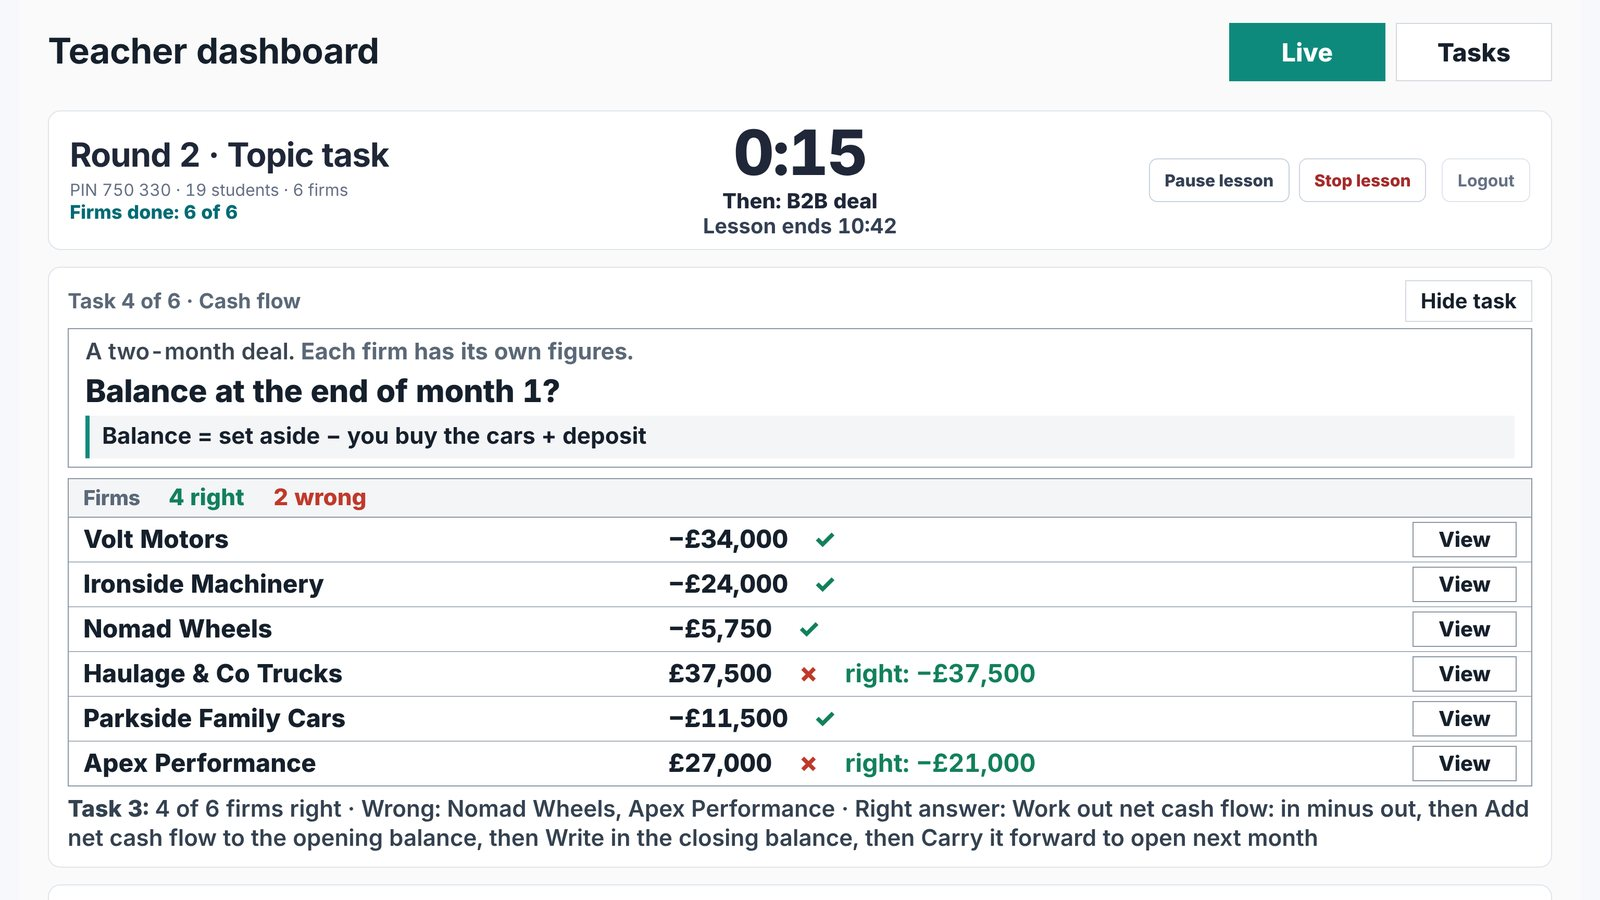
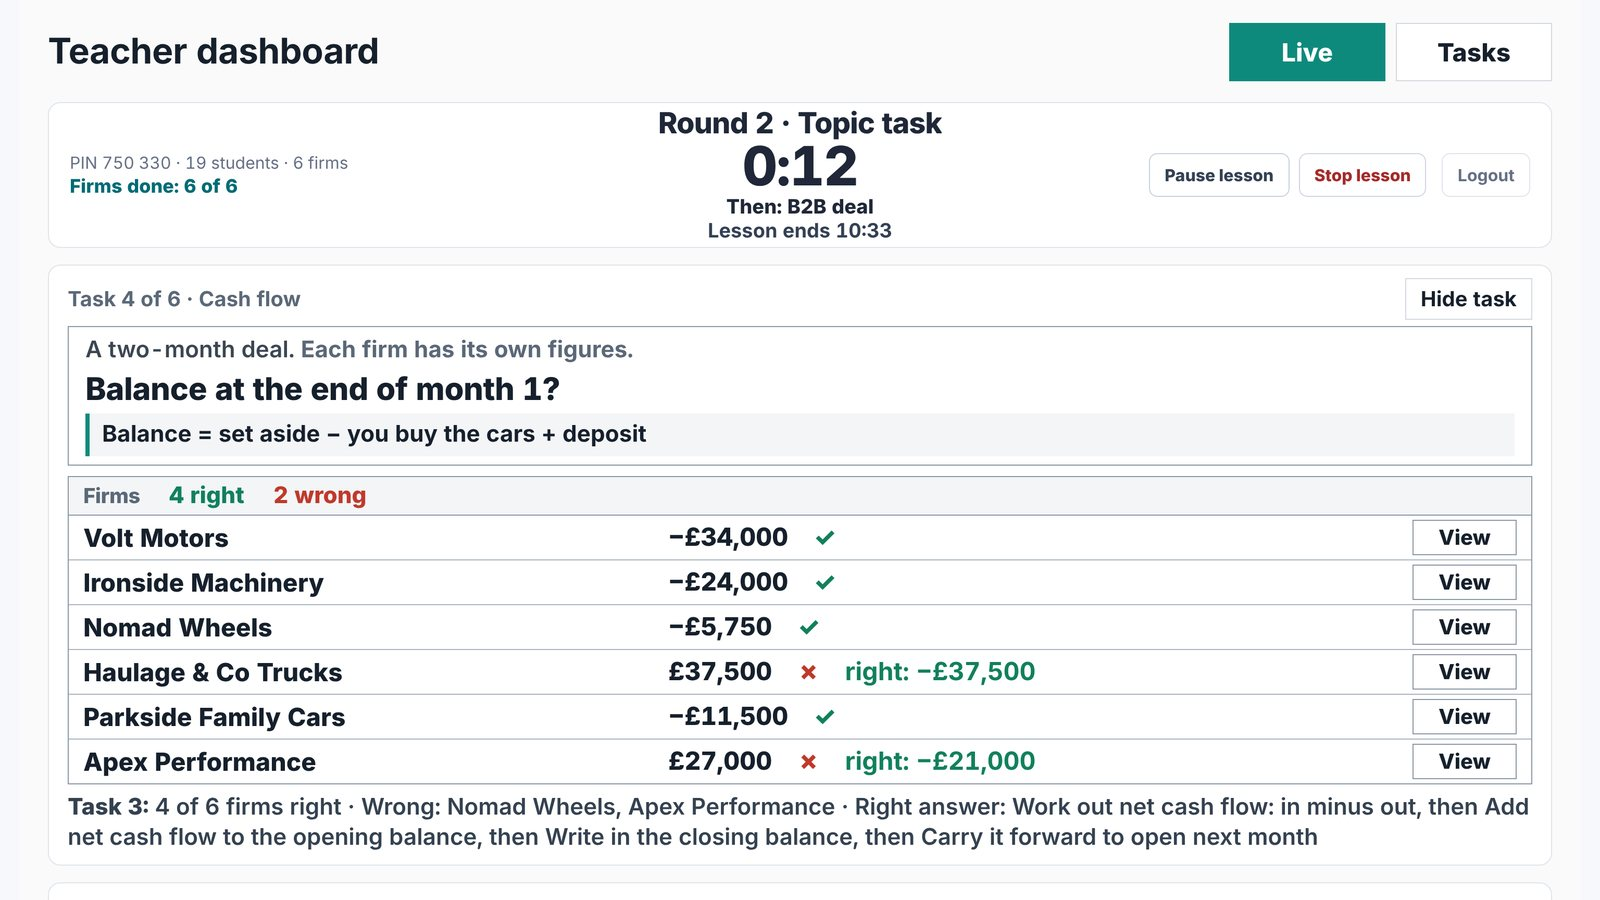
UK pages: teacher-screen pictures re-taken from game main ed12b526 (step name above the clock)
4-teacher, 5-winner and uk-g-topic-dashboard taken again from the live game
with the same scenes, sizes and crops; ?v=20261113b on the three references.

Claude-Session: https://claude.ai/code/session_01Np2n7mwxyzcaQWByNZ1ReD

diff --git a/index.html b/index.html
@@ -651,7 +651,7 @@
       <p style="color:#40506e;font-size:16.5px">A revision lesson at the end of each topic, or a business activity any time (No topic).</p>
       <p style="color:#40506e;font-size:16.5px;margin-top:10px">The lesson runs step by step. The whole class works on the same step at the same time, and your screen shows how many firms are done.</p>
     </div>
-    <div class="hs-wrap"><div class="hs"><div class="hs-list" role="tablist" aria-label="How a lesson runs"><button class="hs-item" type="button" role="tab" aria-selected="true" data-i="0"><span class="hs-n">01</span><span><span class="hs-t">Students join with a PIN</span><span class="hs-d">You pick the class and the lesson length. The whole class joins with one PIN.</span></span></button><button class="hs-item" type="button" role="tab" aria-selected="false" data-i="1"><span class="hs-n">02</span><span><span class="hs-t">Each firm votes where to open</span><span class="hs-d">Everyone votes. Most votes wins.</span></span></button><button class="hs-item" type="button" role="tab" aria-selected="false" data-i="2"><span class="hs-n">03</span><span><span class="hs-t">Everyone deals</span><span class="hs-d">Students buy, price and negotiate face to face.</span></span></button><button class="hs-item" type="button" role="tab" aria-selected="false" data-i="3"><span class="hs-n">04</span><span><span class="hs-t">Every round, the same order</span><span class="hs-d">Firm decisions, deals with classmates, topic tasks, then a B2B deal between firms.</span></span></button><button class="hs-item" type="button" role="tab" aria-selected="false" data-i="4"><span class="hs-n">05</span><span><span class="hs-t">You see every firm live</span><span class="hs-d">Pause and Stop are one click away.</span></span></button><button class="hs-item" type="button" role="tab" aria-selected="false" data-i="5"><span class="hs-n">06</span><span><span class="hs-t">Questions, then the winner</span><span class="hs-d">Six final questions, then the podium.</span></span></button><button class="hs-item" type="button" role="tab" aria-selected="false" data-i="6"><span class="hs-n">07</span><span><span class="hs-t">Every student gets a report</span><span class="hs-d">You download the class pack.</span></span></button></div><div class="hs-view"><div class="hs-frame"><i class="hs-corner tl"></i><i class="hs-corner tr"></i><i class="hs-corner bl"></i><i class="hs-corner br"></i><div class="hs-stack"><img class="hs-img on" src="/assets/tbs-web/howto/1-join.jpg?v=20261112c" alt="Students join with a PIN" width="1100" height="619"><img class="hs-img" src="/assets/tbs-web/howto/2-location.jpg?v=20261110" alt="Each firm votes where to open" loading="lazy" width="1100" height="619"><img class="hs-img" src="/assets/tbs-web/howto/3-deal.jpg?v=20261112" alt="Everyone deals" loading="lazy" width="1100" height="619"><img class="hs-img" src="/assets/tbs-web/howto/3b-margin.jpg?v=20261112d" alt="Every round, the same order" loading="lazy" width="1100" height="619"><img class="hs-img" src="/assets/tbs-web/howto/4-teacher.jpg?v=20261113" alt="You see every firm live" loading="lazy" width="1100" height="619"><img class="hs-img" src="/assets/tbs-web/howto/5-winner.jpg?v=20261113" alt="Questions, then the winner" loading="lazy" width="1100" height="619"><img class="hs-img" src="/assets/tbs-web/howto/6-report.jpg?v=20261112d" alt="Every student gets a report" loading="lazy" width="1100" height="619"></div><div class="hs-bar"><i></i></div></div><p class="hs-cap" aria-live="polite"></p></div></div></div>
+    <div class="hs-wrap"><div class="hs"><div class="hs-list" role="tablist" aria-label="How a lesson runs"><button class="hs-item" type="button" role="tab" aria-selected="true" data-i="0"><span class="hs-n">01</span><span><span class="hs-t">Students join with a PIN</span><span class="hs-d">You pick the class and the lesson length. The whole class joins with one PIN.</span></span></button><button class="hs-item" type="button" role="tab" aria-selected="false" data-i="1"><span class="hs-n">02</span><span><span class="hs-t">Each firm votes where to open</span><span class="hs-d">Everyone votes. Most votes wins.</span></span></button><button class="hs-item" type="button" role="tab" aria-selected="false" data-i="2"><span class="hs-n">03</span><span><span class="hs-t">Everyone deals</span><span class="hs-d">Students buy, price and negotiate face to face.</span></span></button><button class="hs-item" type="button" role="tab" aria-selected="false" data-i="3"><span class="hs-n">04</span><span><span class="hs-t">Every round, the same order</span><span class="hs-d">Firm decisions, deals with classmates, topic tasks, then a B2B deal between firms.</span></span></button><button class="hs-item" type="button" role="tab" aria-selected="false" data-i="4"><span class="hs-n">05</span><span><span class="hs-t">You see every firm live</span><span class="hs-d">Pause and Stop are one click away.</span></span></button><button class="hs-item" type="button" role="tab" aria-selected="false" data-i="5"><span class="hs-n">06</span><span><span class="hs-t">Questions, then the winner</span><span class="hs-d">Six final questions, then the podium.</span></span></button><button class="hs-item" type="button" role="tab" aria-selected="false" data-i="6"><span class="hs-n">07</span><span><span class="hs-t">Every student gets a report</span><span class="hs-d">You download the class pack.</span></span></button></div><div class="hs-view"><div class="hs-frame"><i class="hs-corner tl"></i><i class="hs-corner tr"></i><i class="hs-corner bl"></i><i class="hs-corner br"></i><div class="hs-stack"><img class="hs-img on" src="/assets/tbs-web/howto/1-join.jpg?v=20261112c" alt="Students join with a PIN" width="1100" height="619"><img class="hs-img" src="/assets/tbs-web/howto/2-location.jpg?v=20261110" alt="Each firm votes where to open" loading="lazy" width="1100" height="619"><img class="hs-img" src="/assets/tbs-web/howto/3-deal.jpg?v=20261112" alt="Everyone deals" loading="lazy" width="1100" height="619"><img class="hs-img" src="/assets/tbs-web/howto/3b-margin.jpg?v=20261112d" alt="Every round, the same order" loading="lazy" width="1100" height="619"><img class="hs-img" src="/assets/tbs-web/howto/4-teacher.jpg?v=20261113b" alt="You see every firm live" loading="lazy" width="1100" height="619"><img class="hs-img" src="/assets/tbs-web/howto/5-winner.jpg?v=20261113b" alt="Questions, then the winner" loading="lazy" width="1100" height="619"><img class="hs-img" src="/assets/tbs-web/howto/6-report.jpg?v=20261112d" alt="Every student gets a report" loading="lazy" width="1100" height="619"></div><div class="hs-bar"><i></i></div></div><p class="hs-cap" aria-live="polite"></p></div></div></div>
     <div style="display:flex;gap:14px;justify-content:center;flex-wrap:wrap;margin-top:8px">
       <a href="/trial/" style="display:inline-block;background:#0a6b73;color:#fff;font-weight:700;border-radius:12px;padding:19px 38px;text-decoration:none;font-size:20px;box-shadow:0 8px 24px rgba(10,107,115,.35)">Request a trial</a>
       <a href="https://play.thebusiness.school/demo/group-classroom/" style="display:inline-block;background:#fff;color:#0e2038;border:1px solid #c9d3df;font-weight:700;border-radius:12px;padding:19px 30px;text-decoration:none;font-size:18px">Try the Teacher Demo</a>

diff --git a/topic-tasks/index.html b/topic-tasks/index.html
@@ -240,7 +240,7 @@ footer a{color:#40506e;text-decoration:none;margin-right:18px}
       <div class="card"><h3>Which firms were wrong</h3><p>Named on your screen, ready to talk through.</p></div>
       <div class="card"><h3>Every firm's net position</h3><p>On the same page, live.</p></div>
     </div>
-    <figure class="shot"><img src="/assets/tbs-web/uk/uk-g-topic-dashboard.jpg?v=20261113" width="1600" height="900" loading="lazy" decoding="async" alt="The teacher's Live screen: Task 4, every firm's answer with a tick or a cross, 4 right and 2 wrong, and the right answer for the wrong firms."><figcaption>Your dashboard: each task, and which firms got it right.</figcaption></figure>
+    <figure class="shot"><img src="/assets/tbs-web/uk/uk-g-topic-dashboard.jpg?v=20261113b" width="1600" height="900" loading="lazy" decoding="async" alt="The teacher's Live screen: Task 4, every firm's answer with a tick or a cross, 4 right and 2 wrong, and the right answer for the wrong firms."><figcaption>Your dashboard: each task, and which firms got it right.</figcaption></figure>
   </div>
 </section>
 
